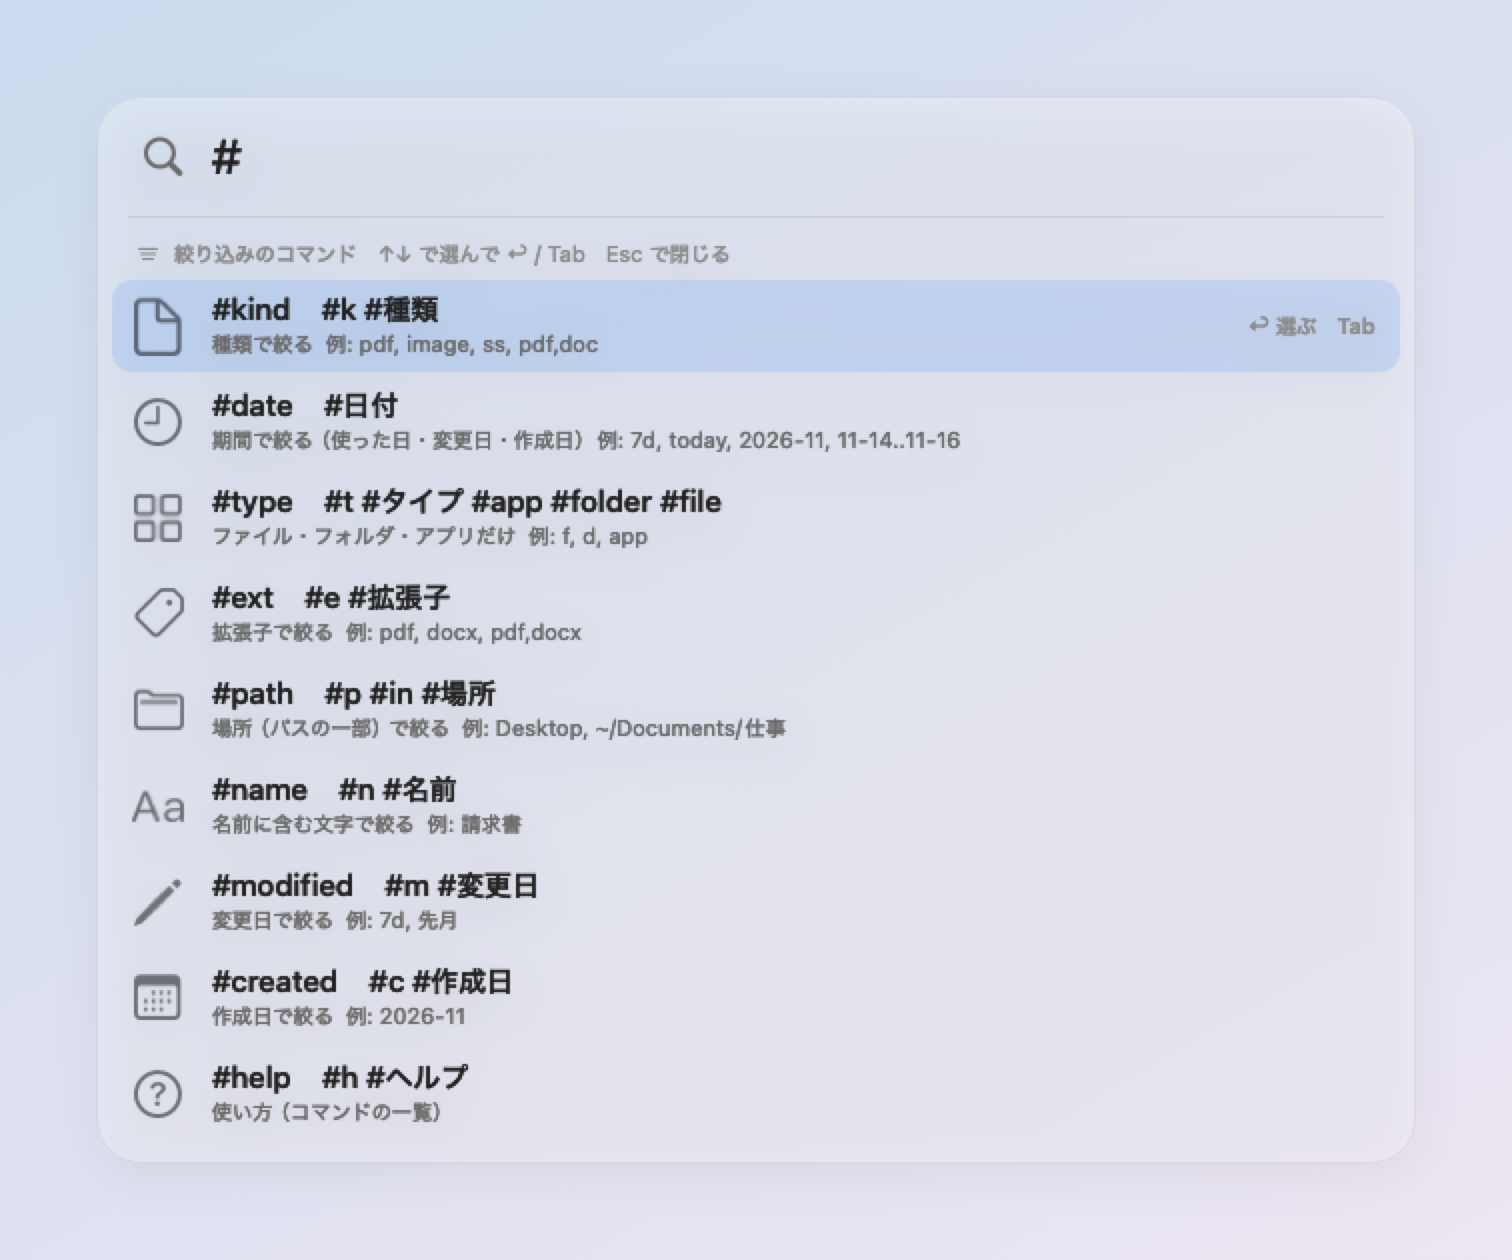
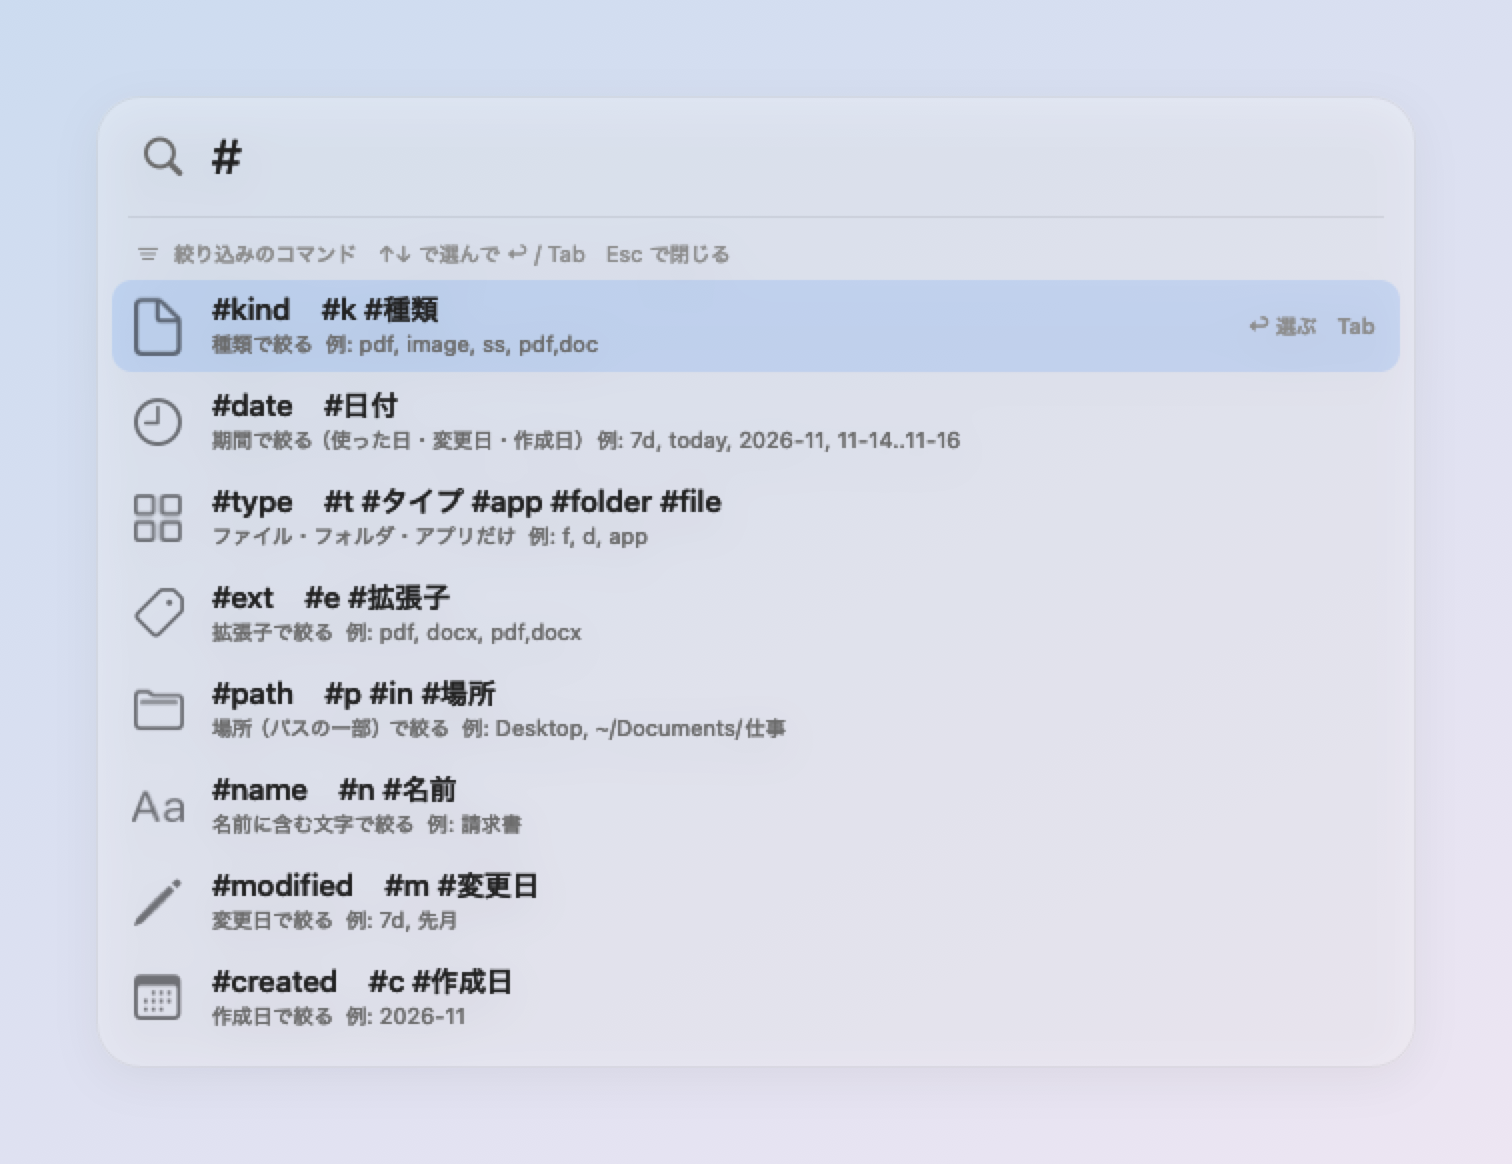
#help をなくす（「#」の一覧で足りる）、空欄の案内文を「Raiden 検索  filter: #」に
- #help / #h は知らないコマンドとして「#help は使えません」
- 案内文は「Raiden 検索」を薄いグレー、「filter: #」をさらに薄く小さく。見本 docs/ui/panel-empty.png

Changed region(s): [[0.0622, 0.1856, 0.9325, 0.8969], [0.0933, 0.0928, 0.1554, 0.1546]]

diff --git a/app/Sources/RaidenCore/QueryFilters.swift b/app/Sources/RaidenCore/QueryFilters.swift
@@ -13,8 +13,8 @@ import Foundation
 ///   コマンドと読むのは、入力の先頭か空白の直後の「#」「＃」＋文字だけ（「C#」「#1」は普通の文字）。
 public struct QueryFilters: Sendable {
     public enum Command: String, Sendable, CaseIterable {
-        case kind, type, ext, date, modified, created, path, name, help
-        public var takesValue: Bool { self != .help }
+        case kind, type, ext, date, modified, created, path, name
+        public var takesValue: Bool { true }
         public var name: String { QueryFilters.mark + rawValue }
         /// 短い別名（find / fd と同じ 1 文字）。#date は無し
         public var short: String? {
@@ -26,7 +26,6 @@ public struct QueryFilters: Sendable {
             case .created: return "#c"
             case .path: return "#p"
             case .name: return "#n"
-            case .help: return "#h"
             case .date: return nil
             }
         }
@@ -57,7 +56,6 @@ public struct QueryFilters: Sendable {
     public var hasSyntax = false          // コマンドが 1 つでも書かれていた（無ければ今までの検索そのまま）
     public var parsed: [Parsed] = []
     public var notes: [String] = []       // 「#size は使えません」など
-    public var help = false
     /// 値がまだ無い・打ちかけのコマンド（"" は「#」だけ）。絞り込みには使わない
     public var pending: String?
     public var dates: [Command: DateCond] = [:]
@@ -78,12 +76,12 @@ public struct QueryFilters: Sendable {
     public var wantsApps: Bool { types.contains("app") || kinds.contains("app") }
     /// アプリを候補に出すか（ファイルにしか効かない条件が付いていれば出さない）
     public var allowsApps: Bool {
-        !help && (types.isEmpty || types.contains("app")) && (!hasKind || kinds.contains("app"))
+        (types.isEmpty || types.contains("app")) && (!hasKind || kinds.contains("app"))
             && exts.isEmpty && dates.isEmpty && paths.isEmpty
     }
     /// ファイル・フォルダを候補に出すか（アプリだけを頼んだときは出さない）
     public var allowsFiles: Bool {
-        !help && !(!types.isEmpty && types == ["app"]) && !(!kinds.isEmpty && kinds == ["app"] && kindExts.isEmpty)
+        !(!types.isEmpty && types == ["app"]) && !(!kinds.isEmpty && kinds == ["app"] && kindExts.isEmpty)
     }
 
     // MARK: - 名前
@@ -98,7 +96,6 @@ public struct QueryFilters: Sendable {
         ("created", .created), ("c", .created), ("作成日", .created),
         ("path", .path), ("p", .path), ("in", .path), ("場所", .path),
         ("name", .name), ("n", .name), ("名前", .name),
-        ("help", .help), ("h", .help), ("?", .help), ("ヘルプ", .help),
     ]
 
     /// #type の別名（前の版の名前）。#app → #type app、#folder → #type d、#file → #type f。
@@ -196,7 +193,6 @@ public struct QueryFilters: Sendable {
         guard let first = token.first, isMark(first) else { return nil }
         let n = String(token.dropFirst())
         if n.isEmpty { return "" }
-        if n == "?" { return n }
         guard let f = n.first, f.isLetter, !n.contains("/"), !n.contains("-"), !n.contains(".") else { return nil }
         return n.lowercased()
     }
@@ -222,11 +218,6 @@ public struct QueryFilters: Sendable {
                     f.notes.append("#\(name) は使えません")
                     f.parsed.append(Parsed(command: nil, raw: t, value: nil, meaning: nil, ok: false))
                 }
-                i += 1; continue
-            }
-            if cmd == .help {
-                f.help = true
-                f.parsed.append(Parsed(command: cmd, raw: t, value: nil, meaning: "使い方", ok: true))
                 i += 1; continue
             }
             // 値: 次のトークン（コマンドの形でなければ）
@@ -331,8 +322,6 @@ public struct QueryFilters: Sendable {
             if !names.contains(n) { names.append(n) }
             remember(.name, ["「\(v)」"])
             return "「\(v)」"
-        case .help:
-            return nil
         }
     }
 
@@ -346,7 +335,6 @@ public struct QueryFilters: Sendable {
         case .ext: f.exts = []
         case .path: f.paths = []
         case .name: f.names = []
-        case .help: f.help = false
         }
         f.labels[c] = nil
         f.order.removeAll { $0 == c }
@@ -441,7 +429,6 @@ public struct QueryFilters: Sendable {
             case .ext: return Chip(command: c, symbol: "tag", label: "拡張子: " + v)
             case .path: return Chip(command: c, symbol: "folder", label: "場所: " + v)
             case .name: return Chip(command: c, symbol: "textformat", label: "名前: " + v)
-            case .help: return nil
             }
         }
     }

diff --git a/app/Sources/RaidenCore/FilterCompletion.swift b/app/Sources/RaidenCore/FilterCompletion.swift
@@ -79,7 +79,6 @@ public enum FilterCompletion {
         (.name, "textformat", "名前に含む文字で絞る", "例: 請求書"),
         (.modified, "pencil", "変更日で絞る", "例: 7d, 先月"),
         (.created, "calendar", "作成日で絞る", "例: 2026-11"),
-        (.help, "questionmark.circle", "使い方（コマンドの一覧）", ""),
     ]
 
     static let dateValues: [(String, String)] = [
@@ -116,13 +115,6 @@ public enum FilterCompletion {
         var s = chars.count
         while s > 0 && !chars[s - 1].isWhitespace { s -= 1 }
         let last = String(chars[s...])
-        let toks = QueryFilters.tokenize(text)
-        // #help（打ち終えて空白）なら全部の一覧
-        if let h = toks.lastIndex(where: { QueryFilters.commandName($0).flatMap(QueryFilters.command(named:)) == .help }),
-           h == toks.count - 1, text.last?.isWhitespace == true,
-           let r = text.range(of: toks[h], options: .backwards) {
-            return Palette(mode: .commands, items: commands(matching: ""), start: text.distance(from: text.startIndex, to: r.lowerBound), partial: "")
-        }
         // 「#t #ap」: #type の値の位置に別名（#app #folder #file）を打っているなら、#type の値の候補にする
         if !last.isEmpty, let name = QueryFilters.commandName(last), !name.isEmpty {
             var e = s
@@ -227,7 +219,7 @@ public enum FilterCompletion {
             }
         case .path:
             out = placeItems(partial: partial, others: others, pool: pool, ctx: ctx)
-        case .name, .help:
+        case .name:
             return []
         }
         // 並べ方: よく使う値 → 件数のある値（種類・拡張子は多い順）→ 0 件
@@ -297,7 +289,6 @@ public enum FilterCompletion {
         switch p.mode {
         case .commands:
             guard let cmd = QueryFilters.command(named: String(item.insert.dropFirst())) else { return (text, nil) }
-            if cmd == .help { return (head + QueryFilters.mark, nil) }
             return (head + cmd.name + " ", nil)
         case .values(let cmd):
             return (tidy(head), cmd.name + " " + item.insert)
@@ -317,7 +308,7 @@ public enum FilterCompletion {
         var cmds: [String] = [], rest: [String] = []
         var i = 0
         while i < toks.count {
-            if let n = QueryFilters.commandName(toks[i]), let c = QueryFilters.command(named: n), c != .help,
+            if let n = QueryFilters.commandName(toks[i]), let c = QueryFilters.command(named: n),
                i + 1 < toks.count, QueryFilters.commandName(toks[i + 1]) == nil {
                 var probe = QueryFilters()
                 if probe.apply(c, QueryFilters.unquote(toks[i + 1]), now: now) != nil {

diff --git a/app/Sources/raiden-eval/FilterEval.swift b/app/Sources/raiden-eval/FilterEval.swift
@@ -77,7 +77,7 @@ func runFilterTests() {
     }
     expect(p("請求書 #").text == "請求書", "打ちかけの「#」は残りの文に入れない")
     expect(p("#date 7d").isActive, "最後の値でも読めれば効く")
-    expect(p("#help").help && p("#h").help, "#help")
+    expect(p("#help ").notes == ["#help は使えません"] && p("#h 請求書").notes == ["#h は使えません"], "#help は無い（知らないコマンド）")
 
     // 当てはまるか
     let home = NSHomeDirectory()
@@ -126,7 +126,7 @@ func runFilterTests() {
     expect(pal("#type ")?.items.map(\.insert) == ["f", "d", "app"], "#type の候補")
     expect(pal("#name ") == nil, "#name は候補なし")
     expect(pal("#date 7d ") == nil, "値の後に空白を打ったら閉じる")
-    expect(pal("#help ")?.mode == .commands, "#help で一覧")
+    expect(pal("#help") == nil && pal("#help ") == nil, "#help で一覧は出さない")
     // ゴーストテキスト
     func ghost(_ t: String) -> String? { pal(t).flatMap(FilterCompletion.ghost)?.text }
     expect(ghost("#date 7") == "d（直近7日）", "ゴースト #date 7 → \(ghost("#date 7") ?? "nil")")

diff --git a/app/Sources/Raiden/SearchPanel.swift b/app/Sources/Raiden/SearchPanel.swift
@@ -300,7 +300,13 @@ final class SearchPanelController: NSObject, NSTextFieldDelegate, NSWindowDelega
         field.focusRingType = .none
         field.font = .systemFont(ofSize: 24, weight: .regular)
         field.textColor = PanelStyle.text
-        // 入力欄が空のときの案内文は出さない（虫めがねのアイコンだけ）
+        // 入力欄が空のときの案内文: 「Raiden 検索」は薄いグレー、「filter: #」は # の使い方の手がかりとしてさらに薄く小さく
+        let ph = NSMutableAttributedString(string: "Raiden 検索", attributes: [
+            .foregroundColor: PanelStyle.faint, .font: NSFont.systemFont(ofSize: 24)])
+        ph.append(NSAttributedString(string: "   filter: #", attributes: [
+            .foregroundColor: NSColor(white: 0.70, alpha: 1), .font: NSFont.systemFont(ofSize: 15),
+            .baselineOffset: 2]))
+        field.placeholderAttributedString = ph
         field.delegate = self
         field.cell?.usesSingleLineMode = true
         statusIcon.contentTintColor = PanelStyle.faint

diff --git a/app/Sources/Raiden/Snapshot.swift b/app/Sources/Raiden/Snapshot.swift
@@ -30,6 +30,7 @@ enum Snapshot {
         let appSec = ResultSection(title: "アプリ", symbol: "app.badge", items: apps)
         let fileSec = ResultSection(title: "ファイル・フォルダ", symbol: "folder", items: files)
 
+        shoot(dir + "/panel-empty.png", query: "", sections: [])
         shoot(dir + "/panel-normal.png", query: "PDFを見るやつ", sections: [appSec, fileSec])
         shoot(dir + "/panel-selected.png", query: "PDFを見るやつ", sections: [appSec, fileSec], select: 6)
         var weakApps = appSec, weakFiles = fileSec
